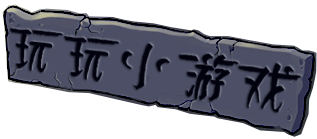
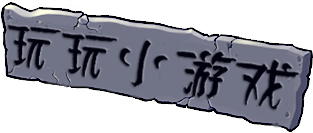
更改贴图位置

diff --git a/source/state/mainmenu.py b/source/state/mainmenu.py
@@ -29,29 +29,29 @@ class Menu(tool.State):
     def setupOption(self):
         self.option_frames = []
         frame_names = [c.OPTION_ADVENTURE + '_0', c.OPTION_ADVENTURE + '_1']
-        frame_rect = [0, 0, 165, 77]
+        frame_rect = [0, 0, 330, 140]
         
         for name in frame_names:
-            self.option_frames.append(tool.get_image_menu(tool.GFX[name], *frame_rect, c.BLACK, 1.7))
+            self.option_frames.append(tool.get_image_menu(tool.GFX[name], *frame_rect, c.BLACK, 1))
         self.option_frame_index = 0
         self.option_image = self.option_frames[self.option_frame_index]
         self.option_rect = self.option_image.get_rect()
-        self.option_rect.x = 435
-        self.option_rect.y = 75
+        self.option_rect.x = 400
+        self.option_rect.y = 60
         
         # 退出按钮
-        frame_rect = [0, 0, 500, 500]
+        frame_rect = [0, 0, 47, 27]
         self.option_exit = tool.get_image_menu(tool.GFX[c.EXIT], *frame_rect, c.BLACK, 1.1)
         self.exit_rect = self.option_exit.get_rect()
-        self.exit_rect.x = 690
-        self.exit_rect.y = 400
+        self.exit_rect.x = 730
+        self.exit_rect.y = 507
 
         # 小游戏
-        frame_rect = [0, 0, 317, 139]
-        self.option_littleGame = tool.get_image_menu(tool.GFX[c.LITTLEGAME_BUTTON], *frame_rect, c.BLACK, 0.9)
+        frame_rect = [0, 7, 317, 135]
+        self.option_littleGame = tool.get_image_menu(tool.GFX[c.LITTLEGAME_BUTTON], *frame_rect, c.BLACK, 1)
         self.option_littleGame_rect = self.option_littleGame.get_rect()
-        self.option_littleGame_rect.x = 425
-        self.option_littleGame_rect.y = 200
+        self.option_littleGame_rect.x = 397
+        self.option_littleGame_rect.y = 175
 
         self.option_start = 0
         self.option_timer = 0
@@ -68,8 +68,9 @@ class Menu(tool.State):
     # 点击到按钮，修改转态的done属性
     def checkExitClick(self, mouse_pos):
         x, y = mouse_pos
-        if(x >= self.exit_rect.x and x <= self.exit_rect.right and
-           y >= self.exit_rect.y and y <= self.exit_rect.bottom):
+        # 这里检查范围应当拟合花瓶下部整个区域
+        if(x >= self.exit_rect.x - 20 and x <= self.exit_rect.right + 20 and
+           y >= self.exit_rect.y - 5 and y <= self.exit_rect.bottom + 10):
             self.done = True
             self.next = c.EXIT
 

diff --git a/source/tool.py b/source/tool.py
@@ -81,7 +81,7 @@ class Control():
             elif event.type == pg.KEYDOWN:
                 self.keys = pg.key.get_pressed()
                 if event.key == pg.K_f:
-                    SCREEN = pg.display.set_mode(c.SCREEN_SIZE, pg.FULLSCREEN)
+                    SCREEN = pg.display.set_mode(c.SCREEN_SIZE, pg.HWSURFACE|pg.FULLSCREEN)
                 elif event.key == pg.K_u:
                     SCREEN = pg.display.set_mode(c.SCREEN_SIZE)
             elif event.type == pg.KEYUP:
@@ -143,12 +143,12 @@ def load_image_frames(directory, image_name, colorkey, accept):
             tmp[index]= img
             frame_num += 1
 
-    for i in range(frame_num):
+    for i in range(frame_num):  # 这里注意编号必须连续，否则会出错
         frame_list.append(tmp[i])
     return frame_list
 
 # colorkeys 是设置图像中的某个颜色值为透明,这里用来消除白边
-def load_all_gfx(directory, colorkey=c.WHITE, accept=('.png', '.jpg', '.bmp', '.gif')):
+def load_all_gfx(directory, colorkey=c.WHITE, accept=('.png', '.jpg', '.bmp', '.gif', 'webp')):
     graphics = {}
     for name1 in os.listdir(directory):
         # subfolders under the folder resources\graphics

diff --git a/source/state/level.py b/source/state/level.py
@@ -199,7 +199,7 @@ class Level(tool.State):
             self.shovel = tool.get_image_menu(tool.GFX[c.SHOVEL], *frame_rect, c.BLACK, 1.1)
             self.shovel_rect = self.shovel.get_rect()
             frame_rect = [0, 0, 77, 75]
-            self.shovel_positon = (550, 2)
+            self.shovel_positon = (608, 1)
             self.shovel_box = tool.get_image_menu(tool.GFX[c.SHOVEL_BOX], *frame_rect, c.BLACK, 1.1)
             self.shovel_box_rect = self.shovel_box.get_rect()
             self.shovel_rect.x = self.shovel_box_rect.x = self.shovel_positon[0]
@@ -213,7 +213,7 @@ class Level(tool.State):
         frame_rect = [0, 0, 108, 31]
         self.little_menu = tool.get_image_menu(tool.GFX[c.LITTLE_MENU], *frame_rect, c.BLACK, 1.1)
         self.little_menu_rect = self.little_menu.get_rect()
-        self.little_menu_rect.x = 650
+        self.little_menu_rect.x = 690
         self.little_menu_rect.y = 0 
 
         frame_rect = [0, 0, 500, 500]

diff --git a/source/component/menubar.py b/source/component/menubar.py
@@ -132,7 +132,7 @@ class MenuBar():
     def __init__(self, card_list, sun_value):
         self.loadFrame(c.MENUBAR_BACKGROUND)
         self.rect = self.image.get_rect()
-        self.rect.x = 10
+        self.rect.x = 0
         self.rect.y = 0
         
         self.sun_value = sun_value
